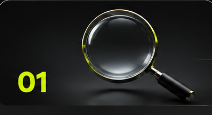
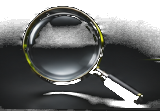
fix: render step numbers in HTML on card with transparent 3D illustrations and generous spacing

diff --git a/src/pages/Home.tsx b/src/pages/Home.tsx
@@ -765,7 +765,7 @@ export default function Home() {
               {/* 4 Cards Grid with Horizontal Connector */}
               <div className="relative">
                 {/* Horizontal Connector Line & Glowing Nodes (Desktop) */}
-                <div className="hidden lg:block absolute top-[28%] left-0 right-0 h-[1px] bg-white/10 z-0 pointer-events-none">
+                <div className="hidden lg:block absolute top-[78px] left-0 right-0 h-[1px] bg-white/10 z-0 pointer-events-none">
                   <div className="absolute left-[24.2%] top-1/2 -translate-y-1/2 w-2.5 h-2.5 rounded-full bg-[#d4ff00] shadow-[0_0_10px_#d4ff00]"></div>
                   <div className="absolute left-[49.5%] top-1/2 -translate-y-1/2 w-2.5 h-2.5 rounded-full bg-[#d4ff00] shadow-[0_0_10px_#d4ff00]"></div>
                   <div className="absolute left-[74.8%] top-1/2 -translate-y-1/2 w-2.5 h-2.5 rounded-full bg-[#d4ff00] shadow-[0_0_10px_#d4ff00]"></div>
@@ -804,26 +804,37 @@ export default function Home() {
                       whileInView={{ opacity: 1, y: 0 }}
                       viewport={{ once: true }}
                       transition={{ delay: 0.1 * (i + 1) }}
-                      className="group bg-[#0e0e0e] border border-white/10 hover:border-[#d4ff00]/40 rounded-[24px] p-6 sm:p-7 flex flex-col justify-between transition-all duration-300 hover:-translate-y-1.5 shadow-[0_10px_30px_rgba(0,0,0,0.5)]"
+                      className="group bg-[#0d0d0d] border border-white/10 hover:border-[#d4ff00]/40 rounded-[28px] p-6 sm:p-7 flex flex-col justify-between transition-all duration-300 hover:-translate-y-1.5 shadow-[0_10px_30px_rgba(0,0,0,0.5)] relative overflow-hidden"
                     >
-                      {/* Top 3D Visual Asset with fully visible graphics and glowing step number */}
-                      <div className="w-full mb-5 overflow-hidden rounded-xl">
-                        <img
-                          src={item.image}
-                          alt={item.title}
-                          className="w-full h-auto object-contain pointer-events-none select-none transform group-hover:scale-105 transition-transform duration-500"
-                        />
+                      {/* Top Visual Row: Step Number on Left + 3D Illustration on Right */}
+                      <div className="flex items-end justify-between min-h-[110px] sm:min-h-[120px] mb-5 sm:mb-6">
+                        {/* Step Number in HTML on the Card */}
+                        <span className="text-3xl sm:text-4xl font-black text-[#d4ff00] tracking-tight leading-none select-none pb-1">
+                          {item.step}
+                        </span>
+
+                        {/* 3D Graphic with generous space on top and side */}
+                        <div className="w-28 h-24 sm:w-36 sm:h-28 flex items-center justify-end">
+                          <img
+                            src={item.image}
+                            alt={item.title}
+                            className="max-w-full max-h-full object-contain pointer-events-none select-none drop-shadow-[0_10px_20px_rgba(0,0,0,0.6)] transform group-hover:scale-105 transition-transform duration-500"
+                          />
+                        </div>
                       </div>
 
                       {/* Content */}
                       <div className="flex-1 flex flex-col justify-start">
-                        {/* Step Title */}
+                        {/* Step Title (WHITE) */}
                         <h3
-                          className="font-black uppercase tracking-tight text-white text-base sm:text-lg mb-3 leading-snug group-hover:text-[#d4ff00] transition-colors"
+                          className="font-black uppercase tracking-tight text-white text-base sm:text-lg leading-snug group-hover:text-white transition-colors"
                           style={{ fontFamily: `'${hFont}', sans-serif` }}
                         >
                           {item.title}
                         </h3>
+
+                        {/* Neon Dash (Between Title and Description) */}
+                        <div className="w-5 h-[2px] bg-[#d4ff00] my-3 sm:my-3.5"></div>
 
                         {/* Step Description */}
                         <p
